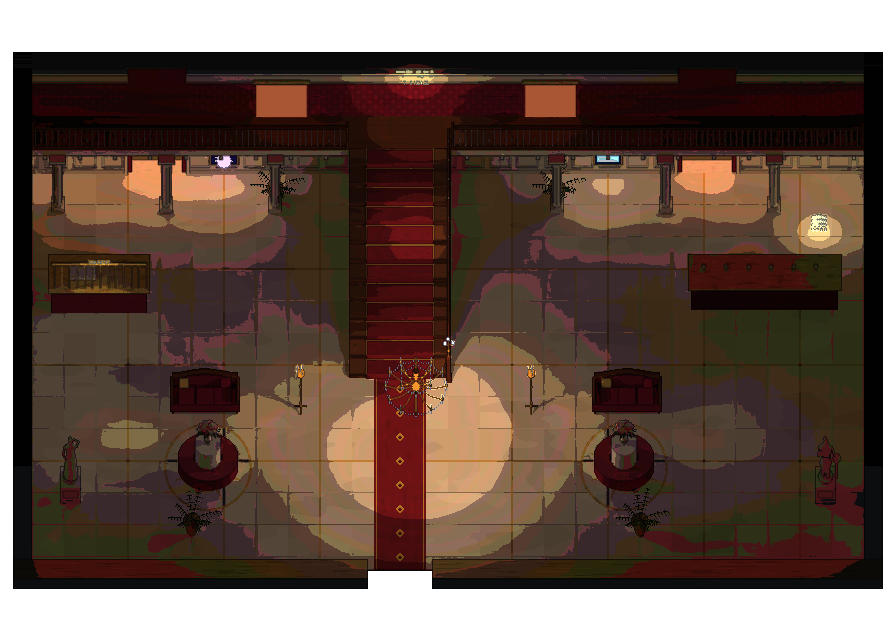
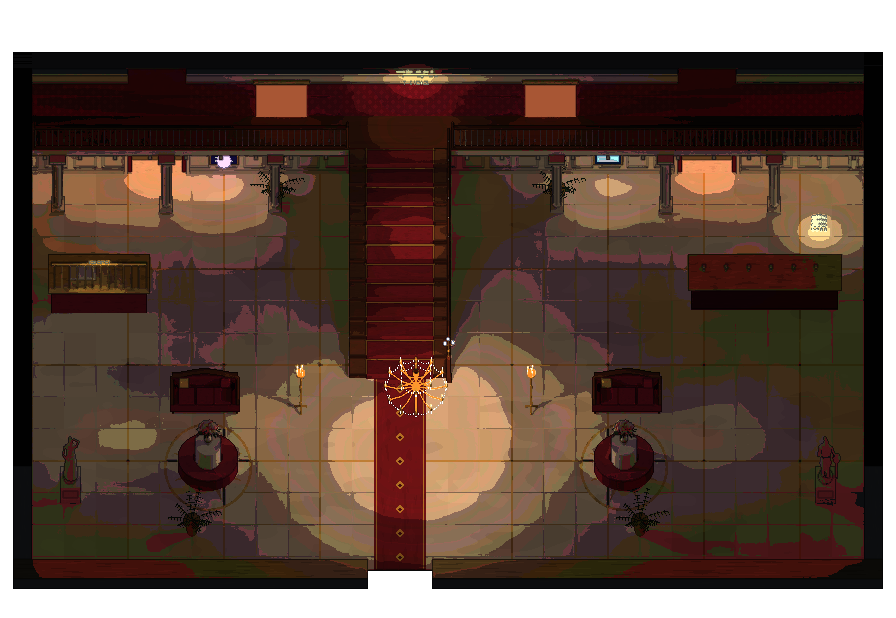
The opera's foyer: the great chandelier and the torchères shine gold and lit in the toy finish
Claude-Session: https://claude.ai/code/session_018nrKREDsAd8AvHNKa8Q1tE

diff --git a/tools/bridge-art/scenes/arcadia_opera.py b/tools/bridge-art/scenes/arcadia_opera.py
@@ -14,6 +14,7 @@ import math
 import sys
 
 from _spires_room import SP, E, CA, PH, S, Kit, shade, render, look, out_door, write_world  # noqa: F401
+E.GLEAM = True                                    # chandeliers and candles stay bright through the toy finish
 
 OUT = sys.argv[1]
 WID = 'arcadia-opera'
